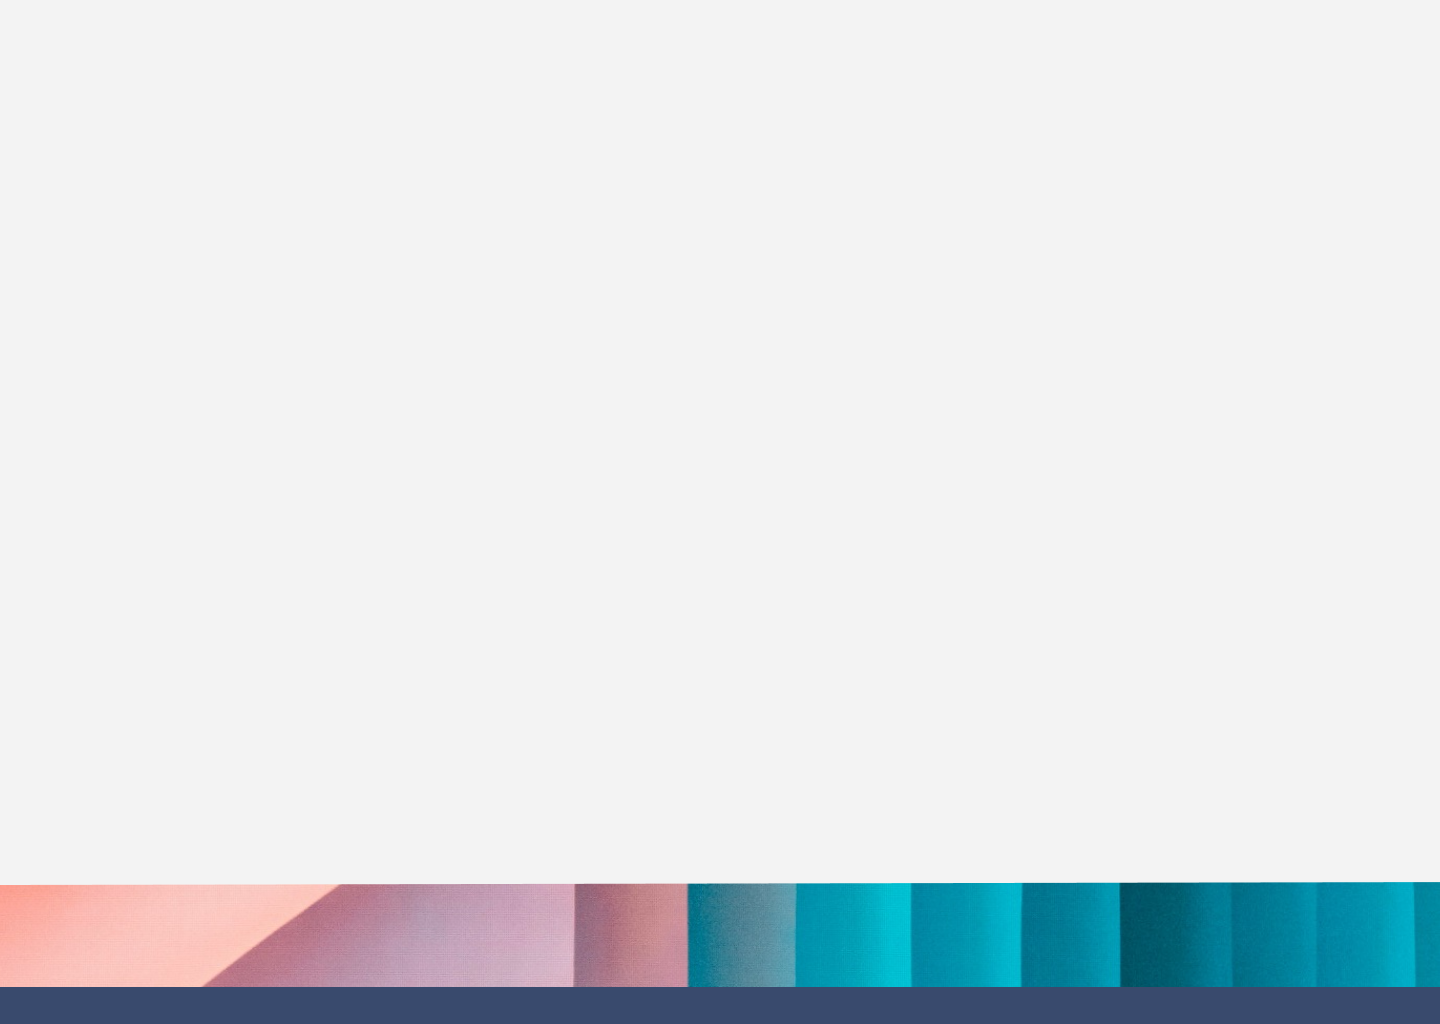
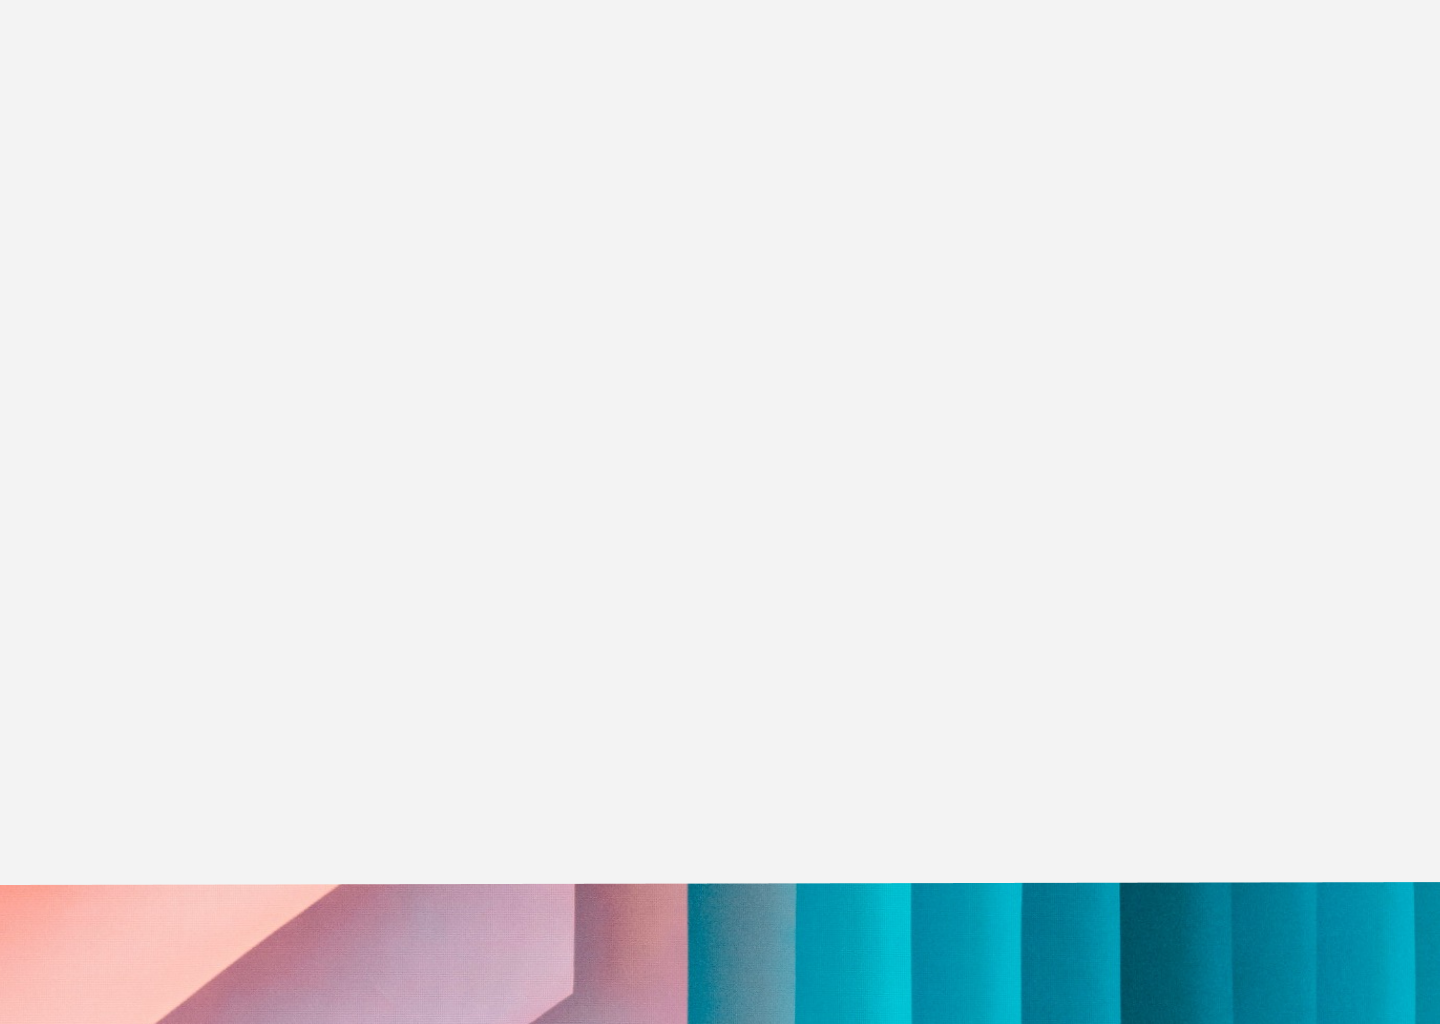
improve contact us style

Changed region(s): [[0.0, 0.9375, 1.0, 1.0]]

diff --git a/public/css/contact-us.css b/public/css/contact-us.css
@@ -8,14 +8,29 @@ body {
     background-image: url("../images/contact-us-bg.png");
     background-repeat: no-repeat;
     background-size: cover;
-
+    background-position: center center;
+    /* Ensures the image is centered */
 }
 
+* {
+    text-shadow:
+        -1px -1px 0 #F3F3F3,
+        1px -1px 0 #F3F3F3,
+        -1px 1px 0 #F3F3F3,
+        1px 1px 0 #F3F3F3;
+}
+
+header,
+footer,
+header *,
+footer * {
+    text-shadow: none;
+}
 
 .container {
     max-width: 800px;
     margin-top: 3%;
-    margin-bottom: 5%;
+    margin-bottom: 10%;
 }
 
 .screenshots img {
@@ -47,7 +62,6 @@ body {
 .description {
     color: #6B6B6B;
 }
-
 
 
 main .main-content {
